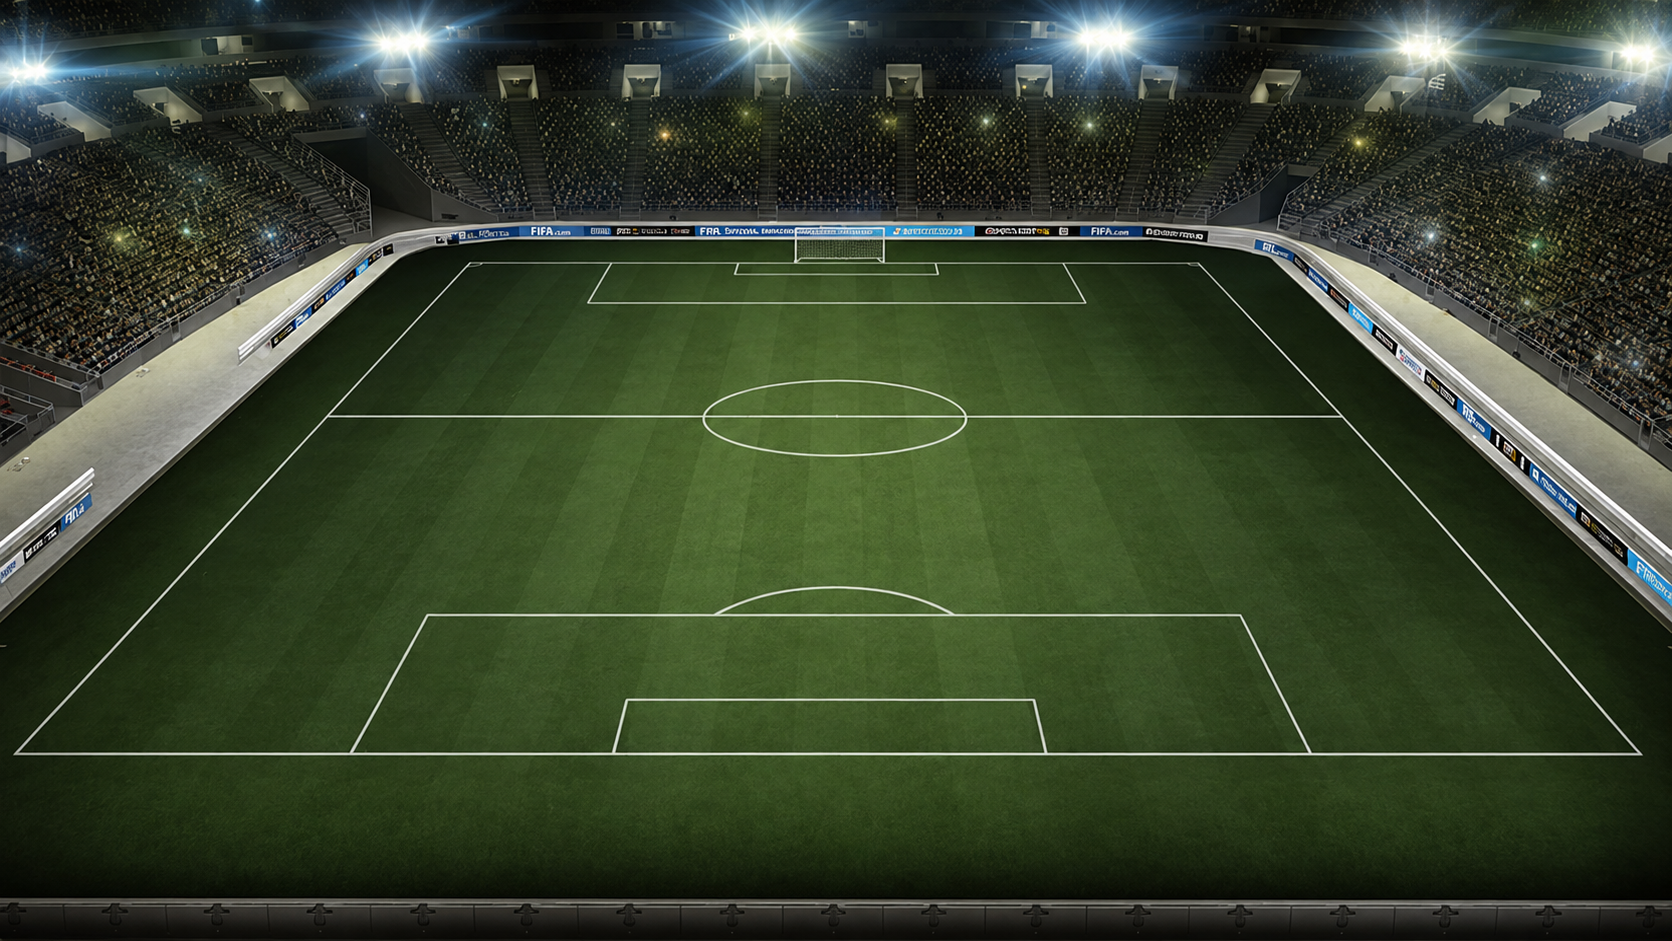
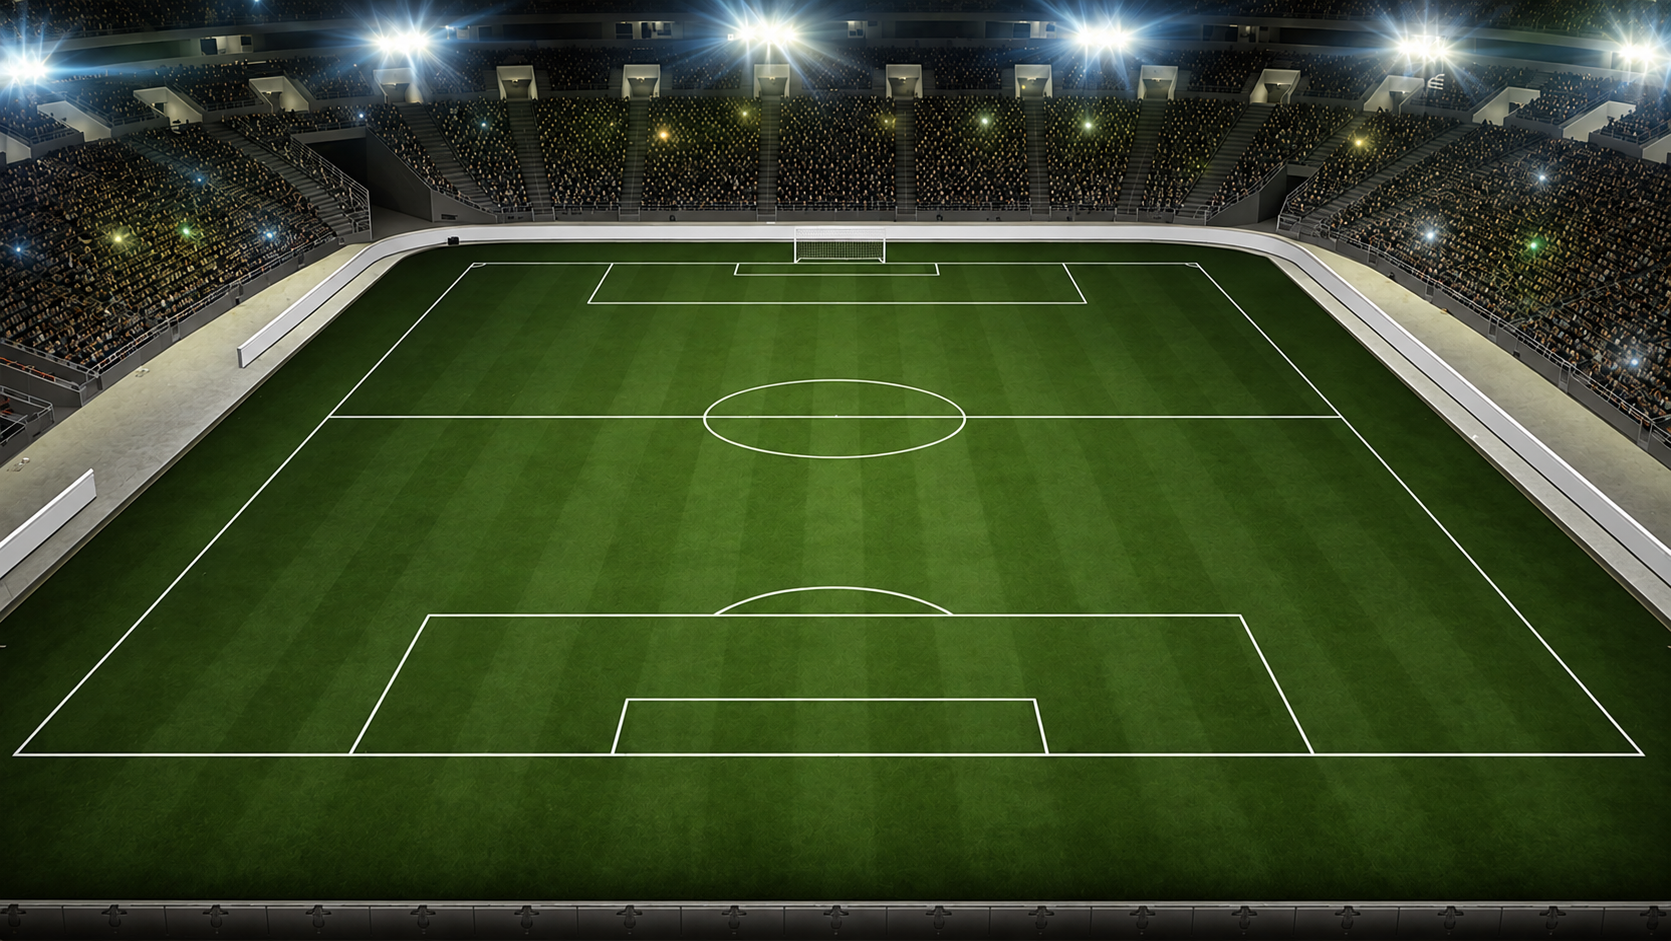
upgrades

diff --git a/style.css b/style.css
@@ -1,3 +1,5 @@
+*, *::before, *::after { box-sizing: border-box; }
+
 html, body {
   height: 100%;          /* set full viewport height */
   margin: 0;             /* remove default margins */
@@ -1019,13 +1021,16 @@ body {
   justify-content: center;
 }
 
+/* picker scales with viewport width: 760px up to 1920, ~1140px at 2560 */
 .picker-box {
   display: flex;
   flex-direction: column;
-  gap: 10px;
-  width: min(760px, 100%);
+  --picker-scale: 1;
+  gap: calc(10px * var(--picker-scale));
+  width: clamp(760px, calc(59.375vw - 380px), 1140px);
+  max-width: 100%;
   max-height: 100%;
-  padding: 12px;
+  padding: calc(12px * var(--picker-scale));
   background: rgba(16, 20, 26, 0.98);
   border: 1px solid rgba(255, 215, 0, 0.35);
   border-radius: 14px;
@@ -1037,24 +1042,24 @@ body {
   display: flex;
   align-items: center;
   justify-content: space-between;
-  gap: 8px;
+  gap: calc(8px * var(--picker-scale));
 }
 
 #picker-title {
-  font-size: 15px;
+  font-size: calc(15px * var(--picker-scale));
   font-weight: bold;
   color: #ffd700;
 }
 
 #picker-close {
-  flex: 0 0 26px;
-  width: 26px;
-  height: 26px;
+  flex: 0 0 calc(26px * var(--picker-scale));
+  width: calc(26px * var(--picker-scale));
+  height: calc(26px * var(--picker-scale));
   background: transparent;
   border: 1px solid rgba(255, 255, 255, 0.2);
   border-radius: 50%;
   color: #fff;
-  font-size: 12px;
+  font-size: calc(12px * var(--picker-scale));
   line-height: 1;
   cursor: pointer;
 }
@@ -1065,19 +1070,19 @@ body {
   display: flex;
   flex-wrap: wrap;
   align-items: center;
-  gap: 8px;
+  gap: calc(8px * var(--picker-scale));
 }
 
 #picker-search {
   flex: 1 1 170px;
   min-width: 0;
-  padding: 6px 10px;
+  padding: calc(6px * var(--picker-scale)) calc(10px * var(--picker-scale));
   background: rgba(255, 255, 255, 0.06);
   border: 1px solid rgba(255, 255, 255, 0.2);
   border-radius: 8px;
   color: #fff;
   font: inherit;
-  font-size: 13px;
+  font-size: calc(13px * var(--picker-scale));
 }
 
 #picker-search:focus { outline: none; border-color: #ffd700; }
@@ -1085,8 +1090,8 @@ body {
 .picker-check {
   display: inline-flex;
   align-items: center;
-  gap: 5px;
-  font-size: 12px;
+  gap: calc(5px * var(--picker-scale));
+  font-size: calc(12px * var(--picker-scale));
   color: #b8c0cc;
   cursor: pointer;
 }
@@ -1094,13 +1099,13 @@ body {
 .picker-check input { accent-color: #ffd700; }
 
 #picker-clear {
-  padding: 6px 10px;
+  padding: calc(6px * var(--picker-scale)) calc(10px * var(--picker-scale));
   background: rgba(255, 255, 255, 0.06);
   border: 1px solid rgba(255, 255, 255, 0.2);
   border-radius: 8px;
   color: #ffb0b0;
   font: inherit;
-  font-size: 12px;
+  font-size: calc(12px * var(--picker-scale));
   cursor: pointer;
 }
 
@@ -1110,23 +1115,25 @@ body {
   color: #fff;
 }
 
+/* 4 karty w rzędzie: kolumny są równe, a karta wypełnia szerokość kafelka */
 #picker-grid {
   flex: 1 1 auto;
-  min-height: 140px;
+  min-height: calc(140px * var(--picker-scale));
   display: grid;
-  grid-template-columns: repeat(auto-fill, minmax(100px, 1fr));
+  grid-template-columns: repeat(4, minmax(0, 1fr));
   align-content: start;
-  gap: 8px;
+  gap: calc(8px * var(--picker-scale));
   padding: 2px;
   overflow-y: auto;
+  container-type: inline-size;
 }
 
 .picker-tile {
   display: flex;
   flex-direction: column;
   align-items: center;
-  gap: 2px;
-  padding: 6px 4px;
+  gap: calc(2px * var(--picker-scale));
+  padding: calc(6px * var(--picker-scale)) calc(4px * var(--picker-scale));
   background: rgba(255, 255, 255, 0.05);
   border: 1px solid rgba(255, 255, 255, 0.12);
   border-radius: 10px;
@@ -1134,6 +1141,7 @@ body {
   font: inherit;
   cursor: pointer;
   transition: background 0.2s ease, border-color 0.2s ease, transform 0.2s ease;
+  container-type: inline-size;
 }
 
 .picker-tile:hover:not(:disabled) {
@@ -1146,27 +1154,32 @@ body {
 
 .picker-tile.off-position { border-color: rgba(255, 107, 107, 0.7); }
 
-/* the card is 243x353; the picker shows it scaled to 27% (66x96) */
+/* karta 243x353; wrap = 100% szerokości kafelka, aspect-ratio jak karta */
 .picker-card-wrap {
   position: relative;
-  width: 66px;
-  height: 96px;
+  width: 100%;
+  aspect-ratio: 243 / 353;
 }
 
+/* karta w pickerze: 90% szerokości kafelka (10% mniejsza), wyśrodkowana.
+   cqw liczy się od najbliższego przodka-container (.picker-tile ma container-type).
+   left:5% (połowa 10%) + scale 0.9 → karta wyśrodkowana w kafelku. */
 .picker-card-wrap .card,
 .picker-card-wrap .card.show {
   position: absolute;
   top: 0;
-  left: 0;
+  left: 5%;
   opacity: 1;
-  transform: scale(0.27);
-  transform-origin: 0 0;
+  width: 243px;
+  height: 353px;
+  transform: scale(calc(100cqw / 243px * 0.9));
+  transform-origin: top left;
   transition: none;
   animation: none;
 }
 
 .picker-label {
-  font-size: 11px;
+  font-size: calc(11px * var(--picker-scale));
   font-weight: bold;
   letter-spacing: 0.5px;
   color: #ffd700;
@@ -1174,37 +1187,46 @@ body {
 }
 
 .picker-name {
-  max-width: 96px;
+  width: 100%;
   overflow: hidden;
   white-space: nowrap;
   text-overflow: ellipsis;
-  font-size: 11px;
+  font-size: calc(11px * var(--picker-scale));
   color: #c7ceda;
   text-align: center;
 }
 
 .picker-empty {
   grid-column: 1 / -1;
-  padding: 24px 8px;
+  padding: calc(24px * var(--picker-scale)) calc(8px * var(--picker-scale));
   color: #8f98a6;
-  font-size: 13px;
+  font-size: calc(13px * var(--picker-scale));
   text-align: center;
 }
 
 #picker-more {
   display: none;
   margin: 0 auto;
-  padding: 7px 14px;
+  padding: calc(7px * var(--picker-scale)) calc(14px * var(--picker-scale));
   background: rgba(0, 0, 0, 0.6);
   color: #fff;
   border: 1px solid rgba(255, 255, 255, 0.25);
   border-radius: 8px;
   font: inherit;
-  font-size: 13px;
+  font-size: calc(13px * var(--picker-scale));
   cursor: pointer;
 }
 
 #picker-more:hover { background: rgba(255, 215, 0, 0.2); border-color: #ffd700; }
+
+/* large screens: scale the whole picker up so cards stay legible */
+@media (min-width: 2200px) {
+  .picker-box { --picker-scale: 1.25; }
+}
+
+@media (min-width: 2500px) {
+  .picker-box { --picker-scale: 1.5; }
+}
 
 @media (max-width: 1200px) {
   #squad-side { max-width: 46%; }
@@ -1236,6 +1258,4 @@ body {
   .squad-side-head span { display: none; }
   .team-name { width: 72px; font-size: 12px; }
   .squad-slot .slot-pos { top: -9px; font-size: 9px; line-height: 13px; }
-  #picker-grid { grid-template-columns: repeat(auto-fill, minmax(84px, 1fr)); }
-  .picker-card-wrap { width: 66px; height: 96px; }
 }

diff --git a/index.html b/index.html
@@ -191,7 +191,7 @@
 
 
   <!-- Author signature linking to GitHub -->
-  <a href="https://github.com/MateuszMachowina" target="_blank" id="author-sign">© 2025 MateuszMachowina</a>
+  <a href="https://github.com/MateuszMachowina" target="_blank" id="author-sign">© 2026 MateuszMachowina</a>
 
   <!-- Spotify button in top-right corner -->
   <a href="https://open.spotify.com/playlist/00i82lDzMDdiHWNjrIGAyw" target="_blank" 

diff --git a/README.md b/README.md
@@ -1,6 +1,6 @@
-# FIFA 15 Pack Opener ⚽
+# FIFA 15 UT Simulator ⚽
 
-- [🎮 Click here to play the game!](https://mateuszmachowina.github.io/PackOpenerF15/)
+- [🎮 Click here to play the game!](https://mateuszmachowina.github.io/F15_UT/)
 
 A browser-based FIFA 15 pack opening simulator: open packs, collect players, build squads and track team rating and chemistry. It includes **720 cards** representing **408 players**.
 
@@ -25,7 +25,7 @@ I have always learned by setting myself challenges, building projects and solvin
 - 🃏 **Club** – browse, search, filter and sort your collection; sell duplicates or selected cards.
 - ⚽ **Squad** – create multiple teams, choose from 9 formations and assign players from the club.
 - 🟢 **Position badges** – green (exact), yellow (acceptable) and red (wrong position).
-- 📊 **Team stats** – average player rating and chemistry (100 − 3 per acceptable position − 8 per wrong position).
+- 📊 **Team stats** – average player rating and chemistry.
 - 🎶 **Spotify** – [open the official FIFA 15 playlist](https://open.spotify.com/playlist/00i82lDzMDdiHWNjrIGAyw?utm_source=generator) from the menu.
 - 📱 **Responsive** – desktop, tablet and mobile layouts.
 
@@ -73,4 +73,4 @@ All graphics, logos and data are the property of **EA Sports**. This project is 
 
 ## 👨💻 Author
 
-[Mateusz Machowina – © 2025](https://github.com/MateuszMachowina)
+[Mateusz Machowina – © 2026](https://github.com/MateuszMachowina)
